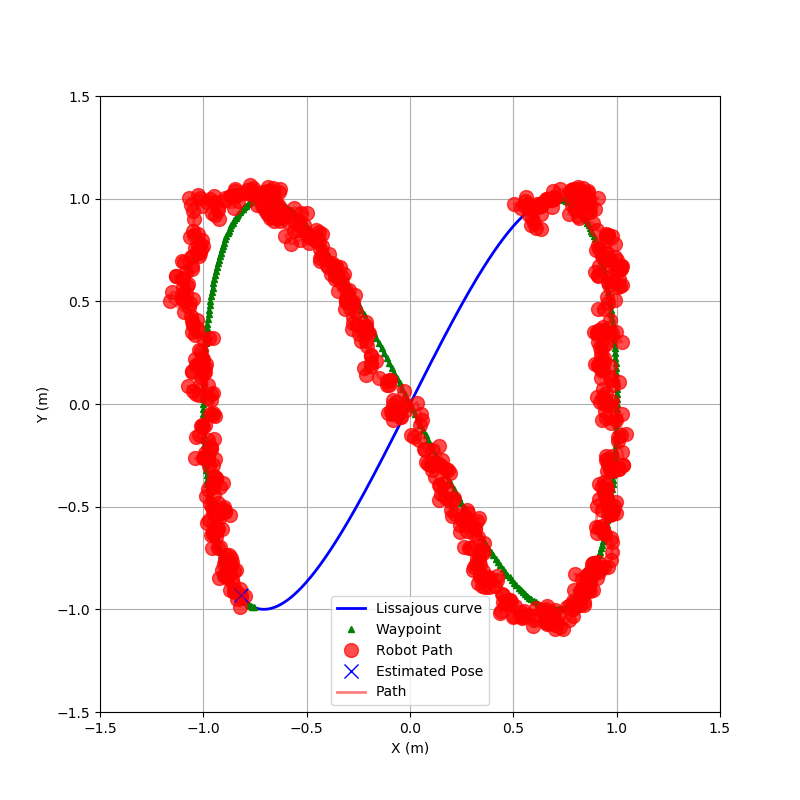
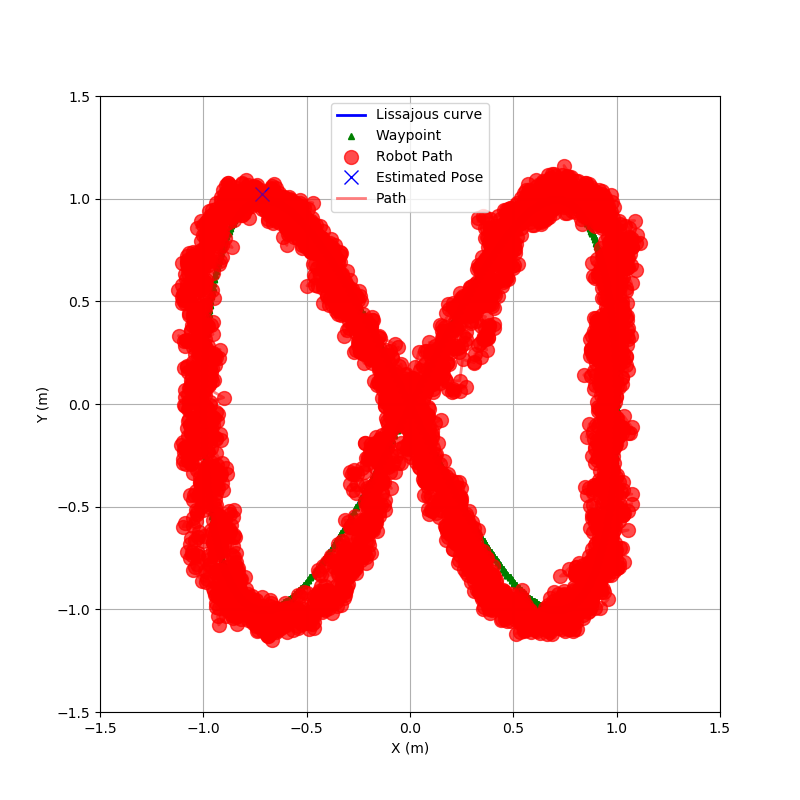
Added MSE plotting feature

Changed region(s): [[0.1875, 0.125, 0.8125, 0.875]]

diff --git a/src/course_project/scripts/controller3.py b/src/course_project/scripts/controller3.py
@@ -4,7 +4,7 @@ from __future__ import division
 import rospy
 from geometry_msgs.msg import Twist, TransformStamped
 
-from std_msgs.msg import String
+from std_msgs.msg import String, Float64
 from nav_msgs.msg import Odometry
 import numpy as np
 from math import atan, atan2, pi, sin, cos, sqrt
@@ -230,6 +230,11 @@ def get_waypoint(t):
     y = B * sin(b * t)          # y-coordinate
     return [x, y]
 
+def calculate_mse(noisy_pose, estimated_pose):
+    """Calculate Mean Squared Error (MSE) between noisy_pose and estimated_pose."""
+    mse = np.mean((noisy_pose - estimated_pose) ** 2)
+    return mse
+
 # This is where we will write code for trajectory following
 def control_loop():
     global pose, depub, input_sys, estimated_pose, noisy_pose
@@ -240,11 +245,12 @@ def control_loop():
 
     rospy.Subscriber('/trilateration_data', Trilateration, callback)
     rospy.Subscriber('/odom', Odometry, callback_odom)
-    rospy.Subscriber('/vicon/tb3_3/tb3_3', TransformStamped, callback_vicon)
+    #rospy.Subscriber('/vicon/tb3_3/tb3_3', TransformStamped, callback_vicon)
 
     depub = rospy.Publisher('/odom2', Odometry, queue_size=10)
     pubw = rospy.Publisher('/bot_0/waypoint', String, queue_size=10)
     pubep = rospy.Publisher('/bot_0/estimatedpose', String, queue_size=10)
+    pubMSE = rospy.Publisher('/mse_error', Float64, queue_size=10)
     
     # Setting the rate for loop execution
     rate = rospy.Rate(5) # 5Hz
@@ -289,8 +295,10 @@ def control_loop():
         input_sys[0] = velocity_msg.linear.x
         input_sys[1] = velocity_msg.angular.z
 
-        timer = timer + 0.004 * pi
+        # Calculate MSE
+        mse = calculate_mse(noisy_pose, estimated_pose)
 
+        timer = timer + 0.004 * pi
 
         rospy.loginfo(f"Estimated Pose: {estimated_pose.flatten()}")
         rospy.loginfo(f"Waypoint: {waypoint}")
@@ -298,7 +306,8 @@ def control_loop():
         pub.publish(velocity_msg)
         waypoint_str = ', '.join(map(str, waypoint))  # Convert the list to a comma-separated string
         pubw.publish(waypoint_str)  # Publish the string message 
-        pubep.publish(','.join(map(str, estimated_pose.flatten())))     
+        pubep.publish(','.join(map(str, estimated_pose.flatten())))
+        pubMSE.publish(mse)    
 
         rate.sleep()
 

diff --git a/src/course_project/scripts/mse_plot.py b/src/course_project/scripts/mse_plot.py
@@ -1,0 +1,47 @@
+#!/usr/bin/env python3
+
+import rospy
+from std_msgs.msg import Float64
+import matplotlib.pyplot as plt
+import time
+
+mse_data = []
+time_data = []
+
+def mse_callback(data):
+    """Callback function to process MSE data."""
+    global mse_data, time_data
+
+    # Append data for plotting
+    mse_data.append(data.data)
+    time_data.append(time.time())
+
+def plot_mse():
+    """Plot MSE vs. Time."""
+    global mse_data, time_data
+
+    plt.figure()
+    plt.plot(time_data, mse_data, label='MSE vs. Time')
+    plt.xlabel('Time (s)')
+    plt.ylabel('MSE')
+    plt.title('Mean Squared Error Over Time')
+    plt.legend()
+    plt.grid()
+    plt.show()
+
+def main():
+    rospy.init_node('mse_plotter', anonymous=True)
+    rospy.Subscriber('/mse_error', Float64, mse_callback)
+    rospy.loginfo("MSE Plotter Node Started")
+
+    # Allow time to collect data before plotting
+    rospy.spin()
+
+    # Plot MSE after shutdown
+    plot_mse()
+
+if __name__ == '__main__':
+    try:
+        main()
+    except rospy.ROSInterruptException:
+        pass
